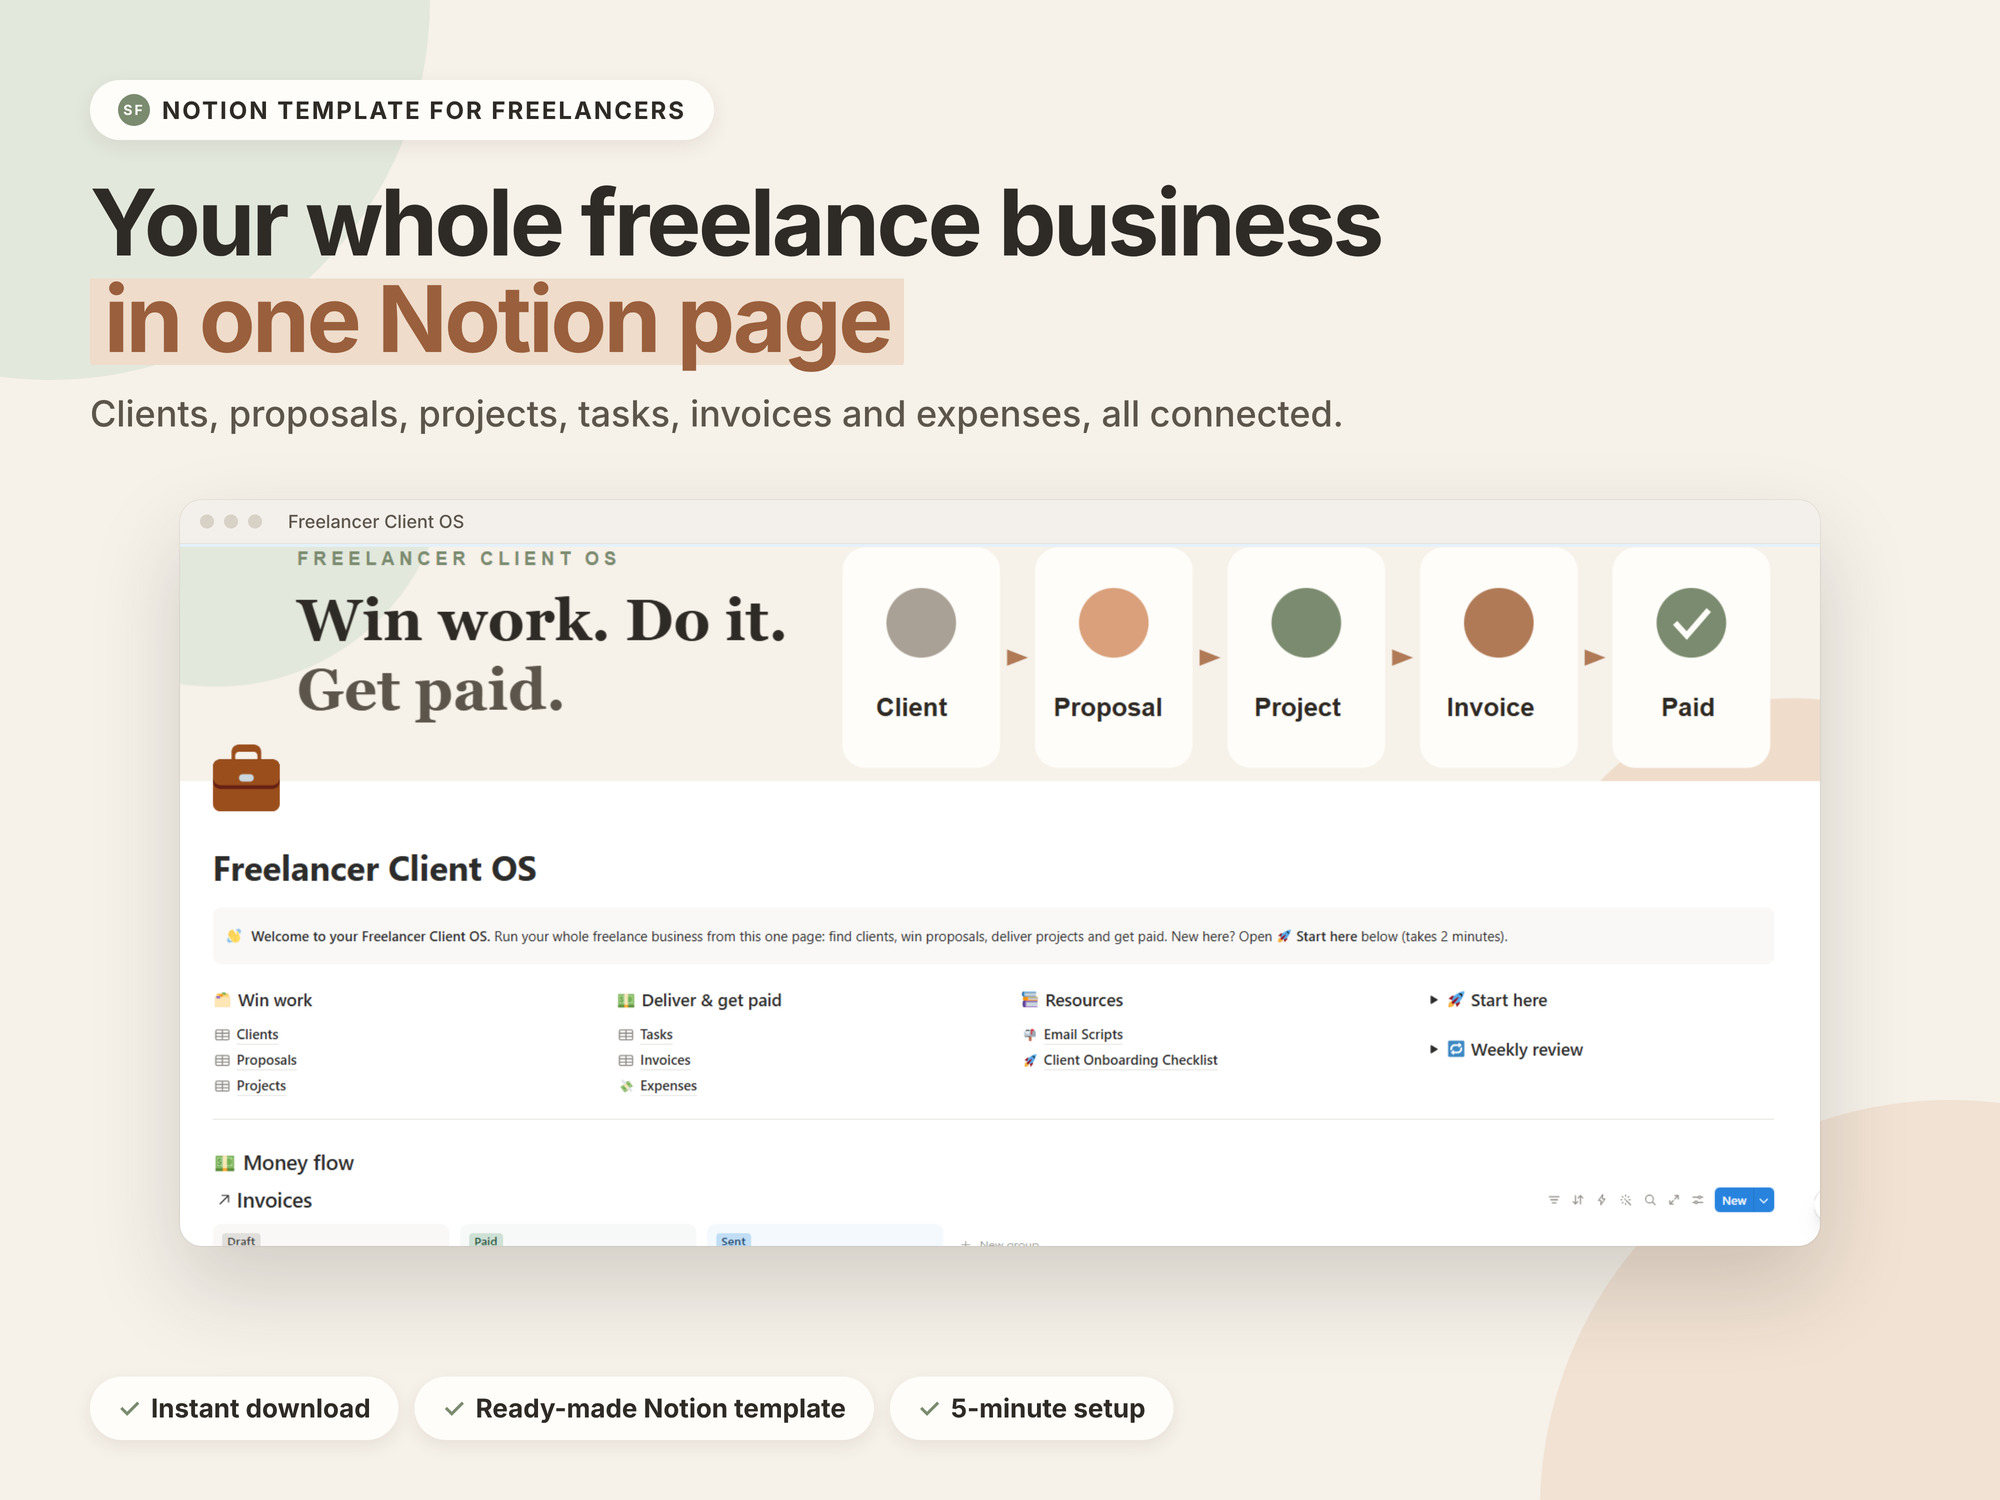
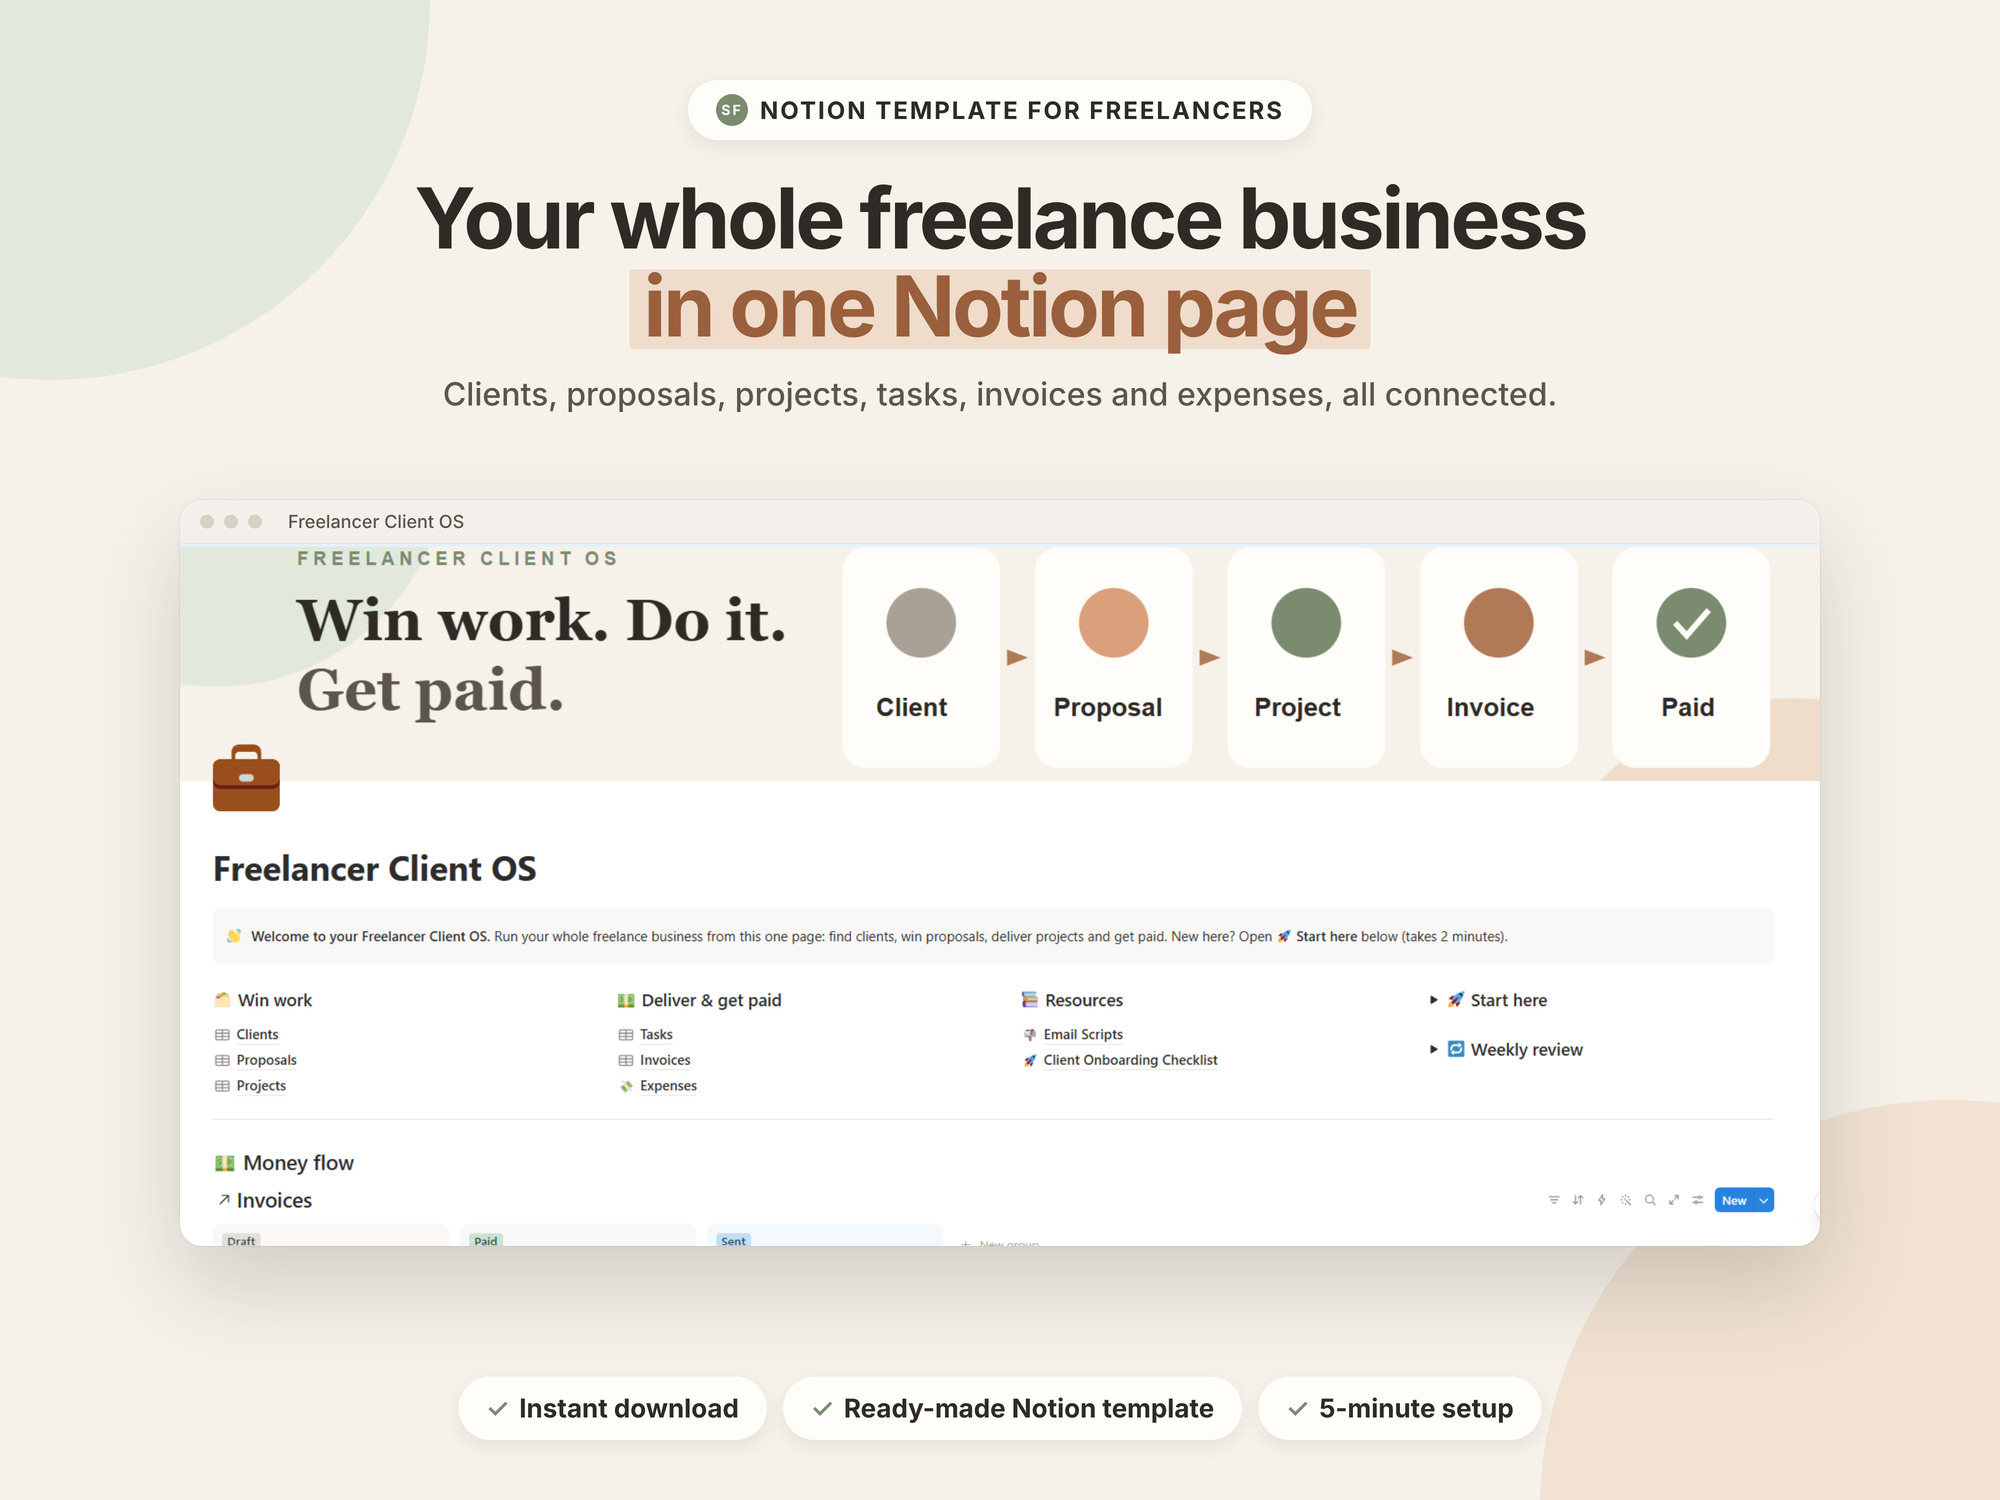
Etsy hero images: centered layout so square thumbnails keep the headline
Claude-Session: https://claude.ai/code/session_01SESvdWYowsCKTnCuHXDcbL

diff --git a/generator/styles/etsy.py b/generator/styles/etsy.py
@@ -82,12 +82,13 @@ def hero(p, pr, tmp):
     path, (cw, ch) = crop(hs['shot'], hs['crop'], tmp, 'hero')
     w = 1640
     h = round(w * ch / cw)
-    body = (f'<div style="position:absolute;left:90px;top:80px;right:90px">'
+    # centered layout: stays readable when Etsy crops the thumbnail to a square
+    body = (f'<div style="position:absolute;left:90px;top:80px;right:90px;text-align:center">'
             f'<div class="kick"><i>SF</i>{pr["kicker"]}</div>'
-            f'<h1 style="margin-top:34px">{title_html(hs["title"])}</h1>'
-            f'<div class="sub" style="margin-top:22px">{hs["sub"]}</div></div>'
+            f'<h1 style="margin-top:34px;font-size:84px">{title_html(hs["title"])}</h1>'
+            f'<div class="sub" style="margin-top:22px;font-size:32px">{hs["sub"]}</div></div>'
             + card_html(path, (W - w) // 2, 500, w, h, pr['name'])
-            + f'<div class="pills" style="position:absolute;left:90px;bottom:60px">{"".join(f"<div class=pill>{x}</div>" for x in PILLS)}</div>')
+            + f'<div class="pills" style="position:absolute;left:0;right:0;bottom:60px;justify-content:center">{"".join(f"<div class=pill>{x}</div>" for x in PILLS)}</div>')
     return page(body, '.foot{display:none}')
 
 
